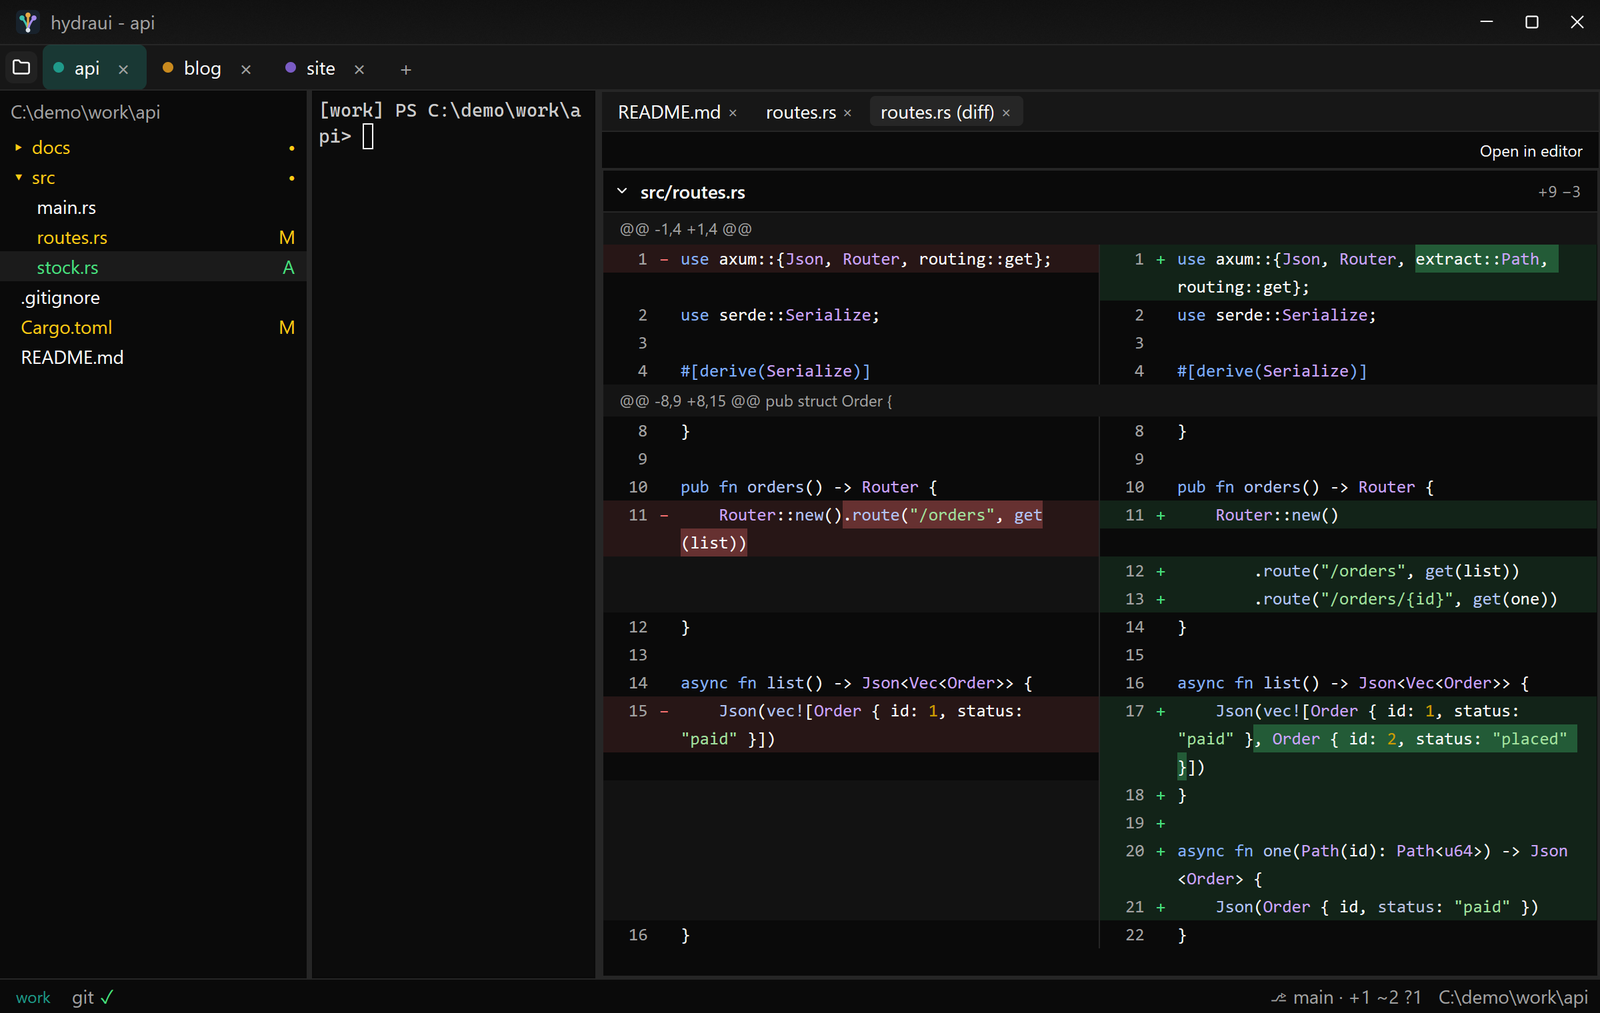
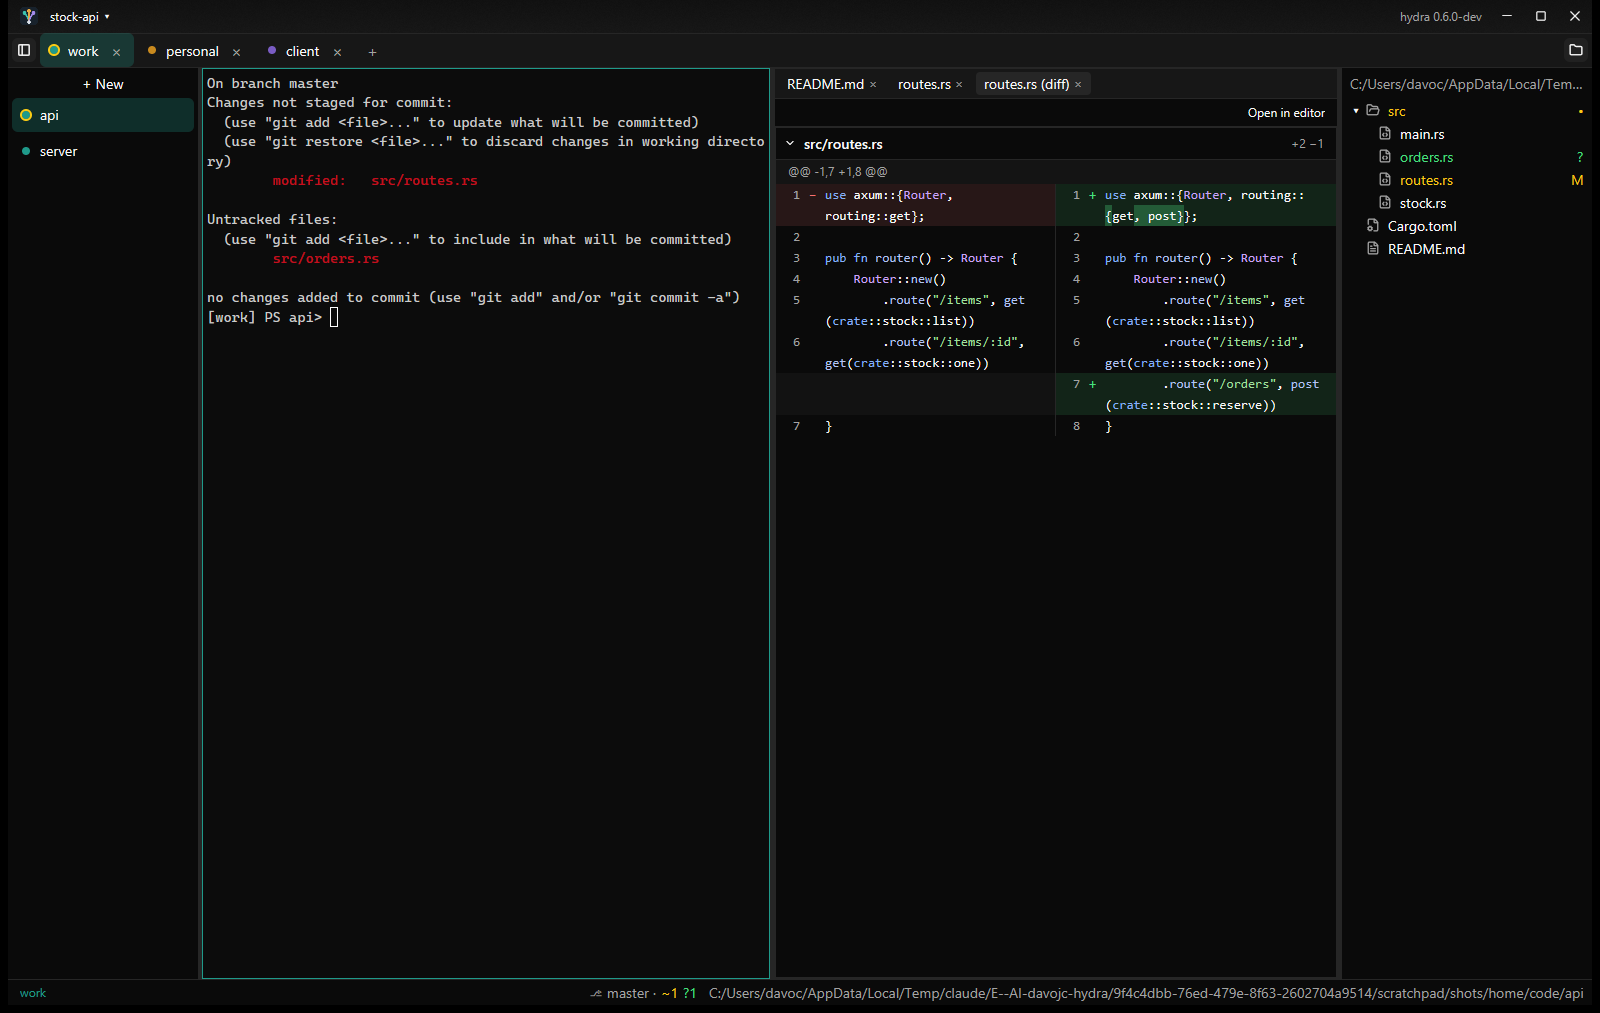
docs: the website's hydraui screenshots show the environment-tabs layout
New main window, diff, launcher and environment picker screenshots, with
their alt text and captions updated to match.

Claude-Session: https://claude.ai/code/session_012CyjcXP7eMt1iKCXs22V35

diff --git a/site/app.html b/site/app.html
@@ -59,8 +59,8 @@
     </header>
 
     <figure class="shot">
-      <img src="img/hydraui-window.png" width="1600" height="1013" alt="hydraui with tabs for the api, blog and site projects, a file tree on the left marking changed files, a terminal and a rendered README.">
-      <figcaption>The file tree marks what git sees changed; the README is rendered in the file pane beside the terminal. This screenshot predates environment tabs: the tabs are now environments, each with its terminals listed on the left, and the file tree sits on the right.</figcaption>
+      <img src="img/hydraui-window.png" width="1600" height="1013" alt="hydraui with tabs for the work, personal and client environments; work's terminals, api and server, listed on the left; git status in the api terminal; the project's README rendered in the file pane; and the file tree on the right.">
+      <figcaption>One tab per environment, with its terminals listed on the left. The shown terminal sits in the middle, the file pane beside it renders the README, and the file tree is on the right.</figcaption>
     </figure>
 
     <section id="start">
@@ -69,7 +69,7 @@
       <p>The first time, hydraui opens a terminal in your home folder. With no environments yet, it asks you to name one and creates it, as <code>hydra env new</code> does. From then on hydraui starts on a page of your recent <a href="#layouts">layouts</a>: pick one, or <strong>New window</strong> for a plain terminal. A window saved as a layout keeps its file up to date as you work (its environments, their terminals and folders, the file tree and the files in each file pane); an untitled window isn't kept when you close it.</p>
       <p>A new window's first environment is the one bound to the home folder, else <code>default_env</code> from the <a href="#settings">settings</a>, else you pick one:</p>
       <figure class="shot narrow">
-        <img src="img/hydraui-picker.png" width="598" height="325" alt="The environment picker as an earlier version showed it, titled Open a tab in…, listing the client, personal and work environments with their colours, and New environment…" loading="lazy">
+        <img src="img/hydraui-picker.png" width="448" height="247" alt="The Add an environment picker listing the client, personal and work environments with their colours, and New environment…" loading="lazy">
       </figure>
       <div class="note"><strong>No folder guard in the app.</strong> A hydraui terminal gets exactly the isolation <code>hydra shell</code> gives, with one exception: it skips the CLI's folder guard. A push to the wrong account fails on its credentials anyway. If a terminal's folder is bound to a different environment than the one it runs in, the pane shows a warning badge.</div>
     </section>
@@ -147,7 +147,7 @@
       </ul>
       <p>In a git repository, files show their status: <strong>M</strong> modified in yellow, <strong>A</strong> added and <strong>?</strong> untracked in green, <strong>D</strong> deleted in red, ignored files dimmed. A folder that holds changes gets a dot. Right-click a changed file and choose <strong>Show changes</strong> for a side-by-side diff against the last commit:</p>
       <figure class="shot">
-        <img src="img/hydraui-diff.png" width="1600" height="1013" alt="A side-by-side diff of src/routes.rs: removed lines on the left, added lines on the right." loading="lazy">
+        <img src="img/hydraui-diff.png" width="1600" height="1013" alt="A side-by-side diff of src/routes.rs in the file pane, removed lines on the left and added lines on the right, with the file tree marking routes.rs modified (M) and orders.rs untracked (?)." loading="lazy">
         <figcaption>The diff opens as its own tab in the file pane, next to the file itself. Renamed files are compared with their old name.</figcaption>
       </figure>
       <p>Right-click a file or folder for <strong>New file…</strong>, <strong>New folder…</strong>, <strong>cd here</strong>, <strong>New terminal here</strong> (folders), <strong>Reveal in Explorer</strong>, <strong>Rename…</strong>, <strong>Delete…</strong> (to the Recycle Bin, after asking), <strong>Copy path</strong> and <strong>Copy relative path</strong>. Open files follow a rename.</p>
@@ -201,7 +201,7 @@
       <h2>The launcher</h2>
       <p><kbd>Ctrl+Shift+P</kbd> opens the launcher: type to filter, Enter to run.</p>
       <figure class="shot narrow">
-        <img src="img/hydraui-launcher.png" width="598" height="531" alt="The launcher listing New tab entries for each environment, Sign in: github in work, Open file…, Search in files…, and layout entries (an earlier version: the entries are now Environment: name)." loading="lazy">
+        <img src="img/hydraui-launcher.png" width="448" height="398" alt="The launcher listing Environment and Edit environment entries for client, personal and work, then Open file… and Search in files…" loading="lazy">
       </figure>
       <div class="tbl">
         <table>

diff --git a/site/index.html b/site/index.html
@@ -34,7 +34,7 @@
   </header>
 
   <figure class="hero-shot">
-    <img src="img/hydraui-window.png" width="1600" height="1013" alt="hydraui with three tabs in the work, personal and client environments: a file tree marking changed files, a terminal showing git status, and the project's README rendered beside it.">
+    <img src="img/hydraui-window.png" width="1600" height="1013" alt="hydraui with tabs for the work, personal and client environments, work's terminals listed on the left, a terminal showing git status, the project's README rendered beside it, and the file tree on the right.">
   </figure>
 
   <section id="two-ways">
